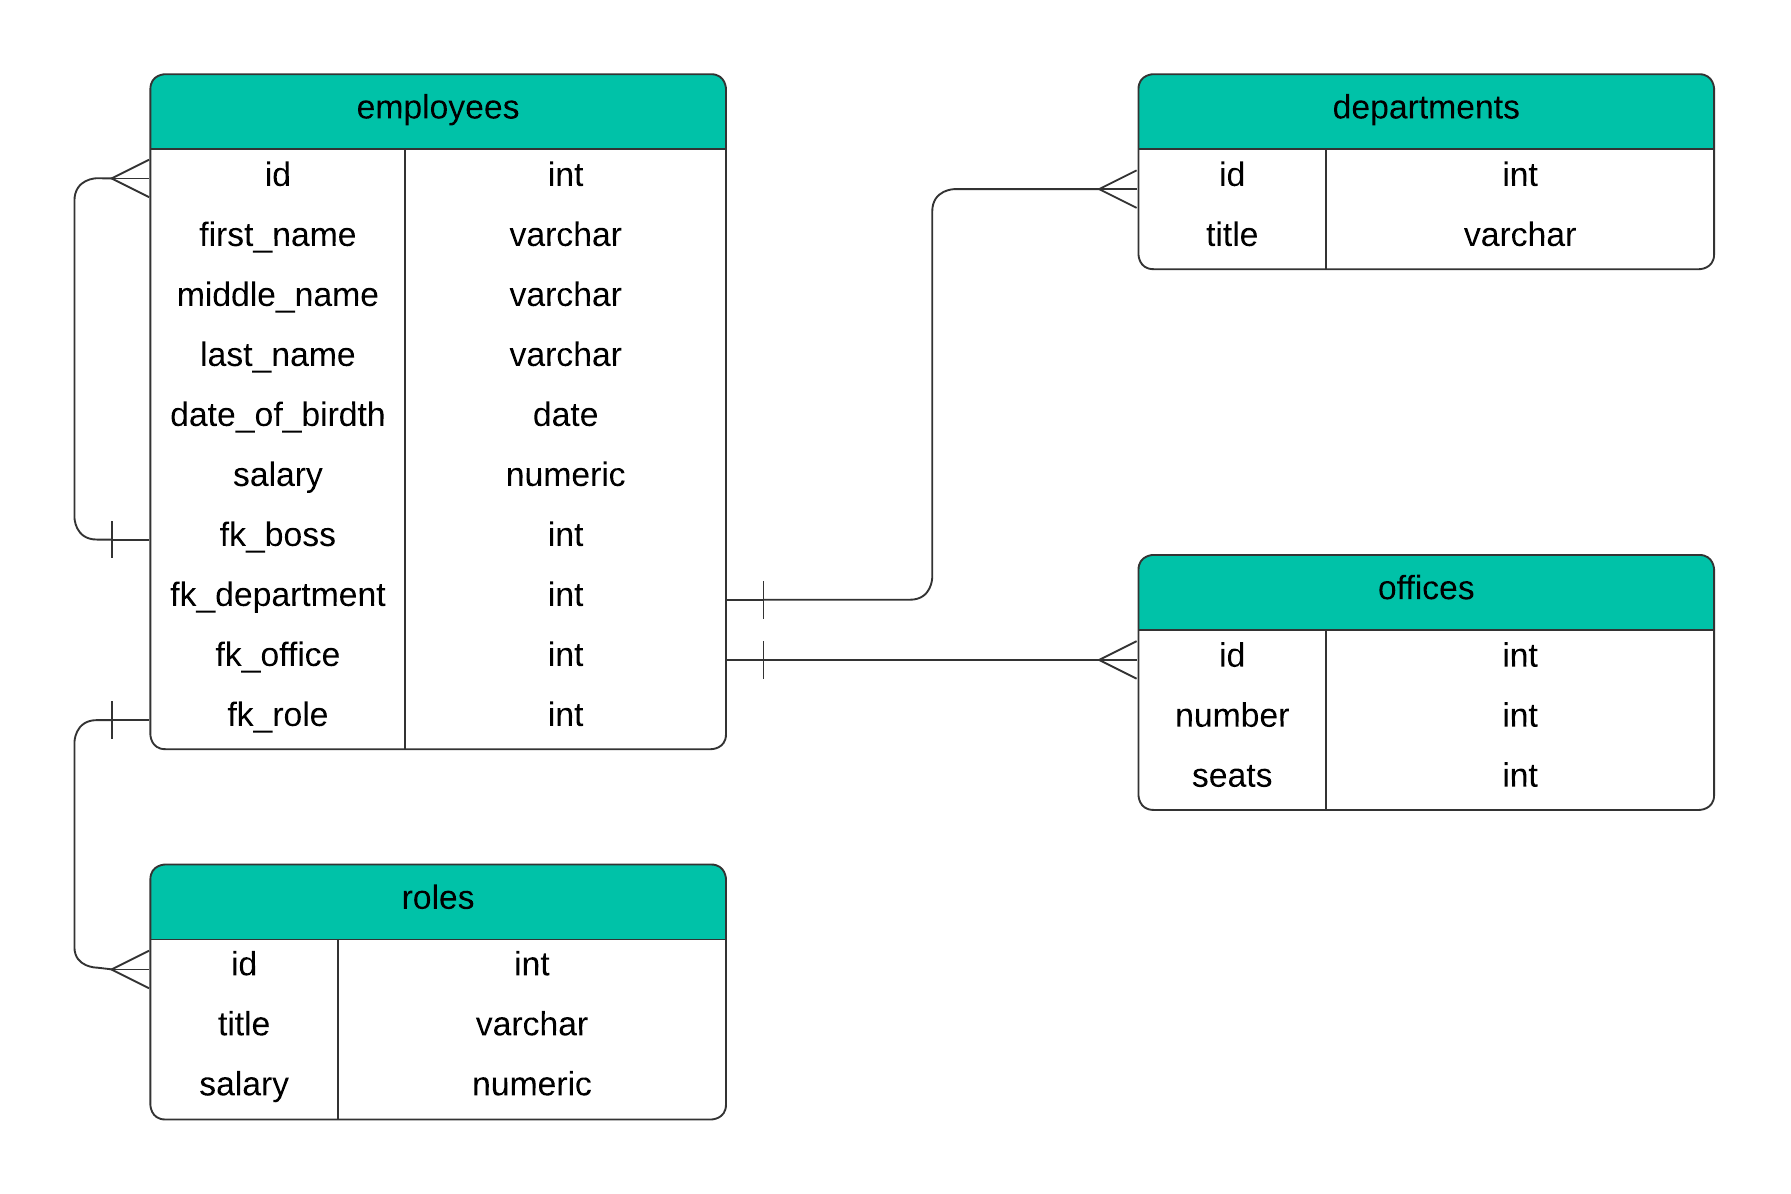
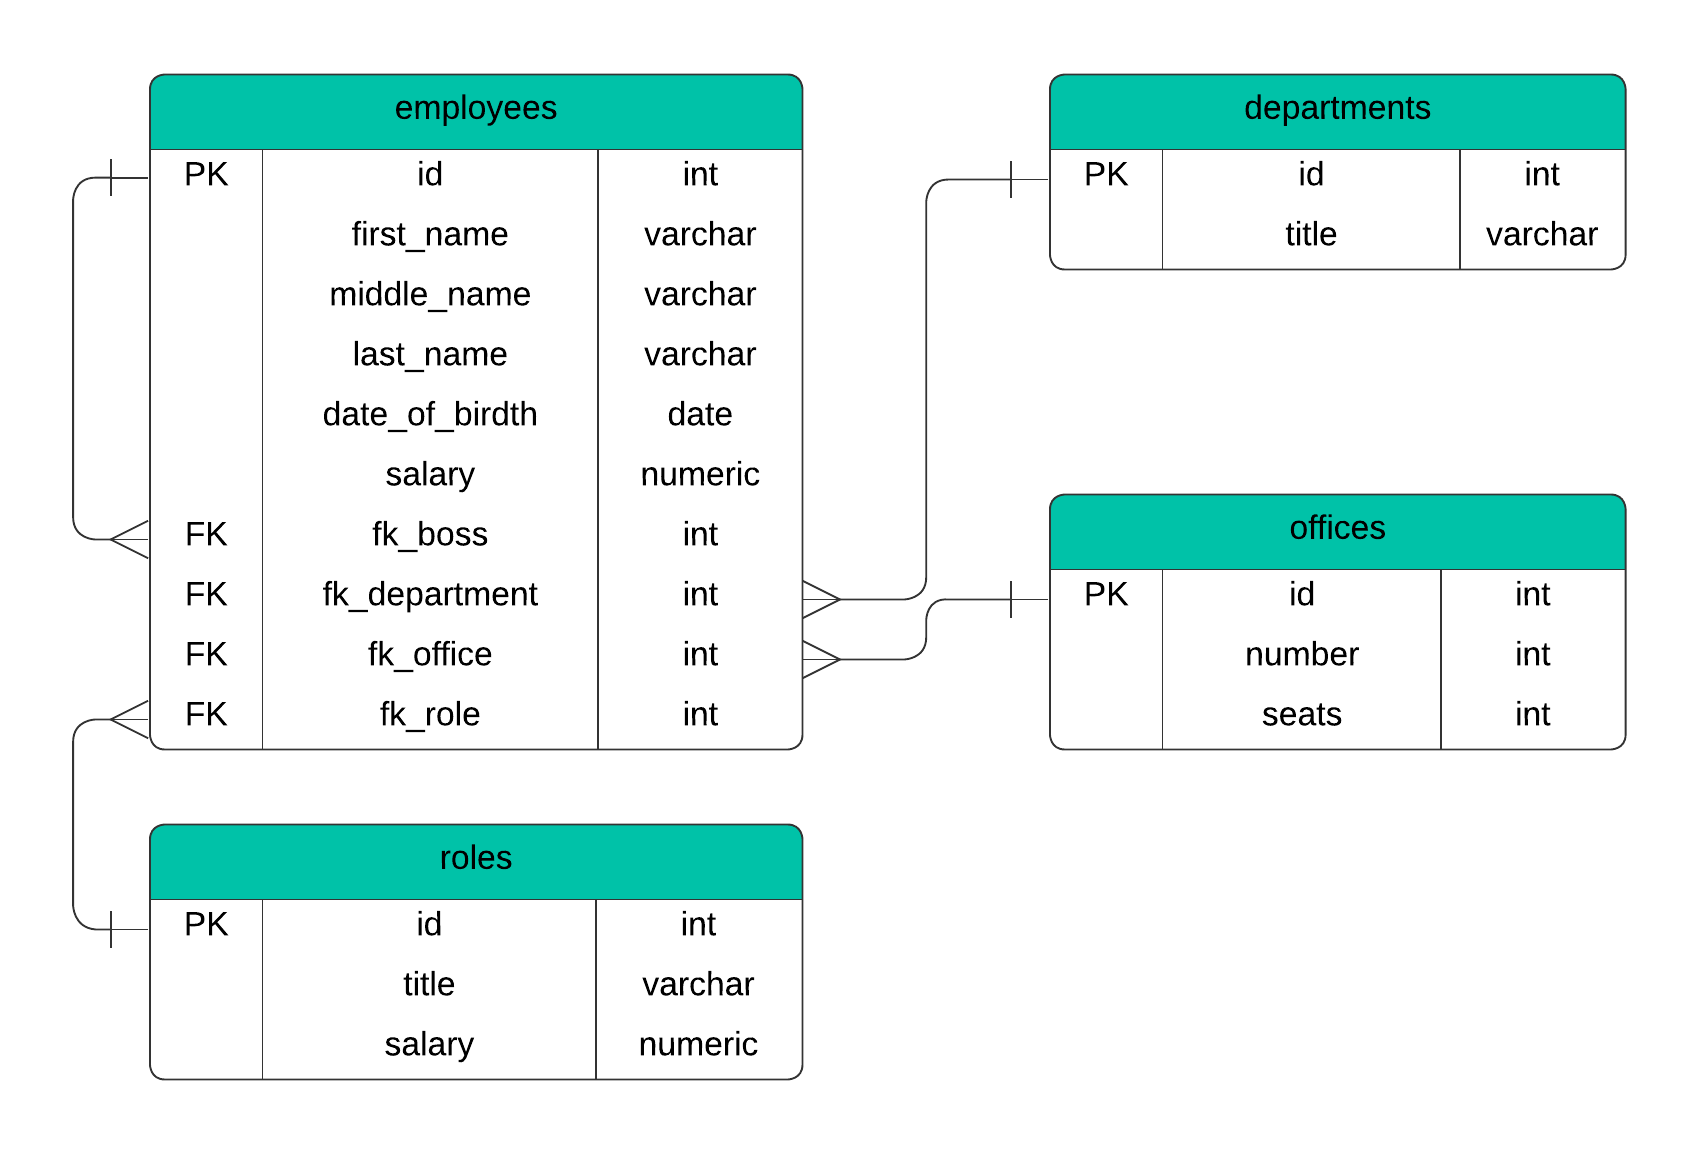
Подготовка документации

diff --git a/README.md b/README.md
@@ -1,0 +1,119 @@
+# Тестовое задание на позицию Разработчик PostgreSQL
+
+### 1. Концептуальная и физическая модели данных 
+Концептуальная и физическая модели данных представлены в виде Entity-Relation диаграммы и, непосредственно, реализации данной архитектуры в DDL, описанном в файле `init.sql`. 
+
+<div>
+    <img src="#" width="40" height="40"/>&nbsp;
+</div>
+
+<b>Отделы (departments)</b>
+
+|Key|Column|Type|Unique|Nullable|Description|
+|---|---|---|---|---|---|
+|PK|id|INT|*|*|Автоинкрементный идентификатор|
+||title|VARCHAR(200)||*|Название отдела|
+
+
+<b>Офисы (offices)</b>
+
+|Key|Column|Type|Unique|Nullable|Description|
+|---|---|---|---|---|---|
+|PK|id|INT|*|*|Автоинкрементный идентификатор|
+||number|INT||*|Номер офиса|
+||seats|INT||*|Количество свободных мест в офисе|
+
+<em>Ограничения целостности:</em>
+
+* Количество свободных мест не может быть меньше нуля:
+`CHECK (seats >= 0)`
+
+
+
+<b>Должности (roles)</b>
+
+|Key|Column|Type|Unique|Nullable|Description|
+|---|---|---|---|---|---|
+|PK|id|INT|*|*|Автоинкрементный идентификатор|
+||title|VARCHAR(300)||*|Название должности|
+||salary|NUMERIC(10, 2)||*|Размер зарплаты на должности по-умолчанию|
+
+
+<b>Сотрудники (employees)</b>
+
+|Key|Column|Type|Unique|Nullable|Description|
+|---|---|---|---|---|---|
+|PK|id|INT|*|*|Автоинкрементный идентификатор|
+||first_name|VARCHAR(50)||*|Имя|
+||last_name|VARCHAR(50)||*|Фамилия|
+||middle_name|VARCHAR(50)|||Отчество|
+||date_of_birdth|DATE||*|Дата рождения|
+||salary|NUMERIC(10, 2)|||Зарплата|
+|FK (employees.id)|fk_boss|INT|||Прямой начальник сотрудника|
+|FK (departments.id)|fk_department|INT|||Отдел, в котором числится сотрудник|
+|FK (offices.id)|fk_office|INT|||Офис, к которому прикрепен сотрудник|
+|FK (roles.id)|fk_role|INT|||Должность|
+
+<em>Ограничения целостности:</em>
+
+* При удалении начальника и офиса сотрудника стирается информация о связи:
+`ON DELETE SET NULL`
+
+* При удалении отдела и должности происходит каскадное удаление сотрудников, имеющие соответствующие внешние ключи к удаленным объектам:
+`ON DELETE CASCADE`
+
+
+### 2. Бизнес-процесс в нотации BPMN 2.0
+
+<div>
+    <img src="#" width="40" height="40"/>&nbsp;
+</div>
+
+
+### 3. Реализация модели данных
+
+Файл `init.sql` содержит скрипт инициализации базы данных <b>company</b>, реализацию "API" и генерацию тестовых данных для проверки на корректную работу объектов.
+
+База данных разделена на три схемы:
+* `core` содержит DDL, описывающий таблицы.
+* `api` состоит из хранимых процедур и представлений, являющихся тем самым API для доступа к данным - добавление/изменение/удаление данных и вывод подробной информации о сущностях.
+* `service` - служебная схема, в которой хранятся триггеры и функции, обеспечивающие функционирование бизнес-логики на стороне базы данных.
+
+
+### 4. API
+
+"API" базы данных содержится в схеме `api`. Объекты данной схемы реализуют стандартный CRUD. 
+
+Привилегии публичного доступа к схеме `api` реализуются с помощью следующего блока кода:
+```sql 
+GRANT USAGE ON SCHEMA api TO PUBLIC;
+GRANT EXECUTE ON ALL PROCEDURES IN SCHEMA api TO PUBLIC;
+GRANT SELECT ON ALL TABLES IN SCHEMA api TO PUBLIC;
+```
+
+Расширенный функционал обеспечивают триггеры, которые следят за соблюдением целостности данных, и в случае необходимости вносят изменения в данные.
+
+|Триггер|Описание задачи|
+|---|---|
+|trg_default_salary|Если у сотрудника не выставлена зарплата, то триггер подставляет в employees.salary значение, указанное для должности сотрудника по-умолчанию|
+|trg_decrement_seats|Когда новый сотрудник прикрепляется к какому-то офису, он занимает в нем место. Данный триггер следит за корректным уменьшением количества свободных мест в таблице offices.|
+|trg_increment_seats|Когда сотрудник удаляется, он освобождает место в офисе. Триггер увеичивает количество мест на 1 при каждом удалении сотрудника из офиса|
+
+
+### 5. Генерация данных
+
+Функционал генерирования данных представлен функциями, представлениями и даже рядом простых выховов процедур из API. 
+Данные об отделах, офисах и сотрудниках генерируются с помощью анонимных функций PL/pgSQL. 
+Данные о должностях сгенерированы простыми вызовами хранимых процедур из схемы `api`.
+
+<em>Объем тестовых данных можно регулировать в циклах FOR анонимных функций.</em>
+
+
+### 6. Скрипты на выборку
+
+Все скрипты на выборку данных из API предоставлены в файле `scripts.sql`.
+
+
+### Простые выборки
+
+Простые выборки подготовлены в файле `simple_samples.sql`.
